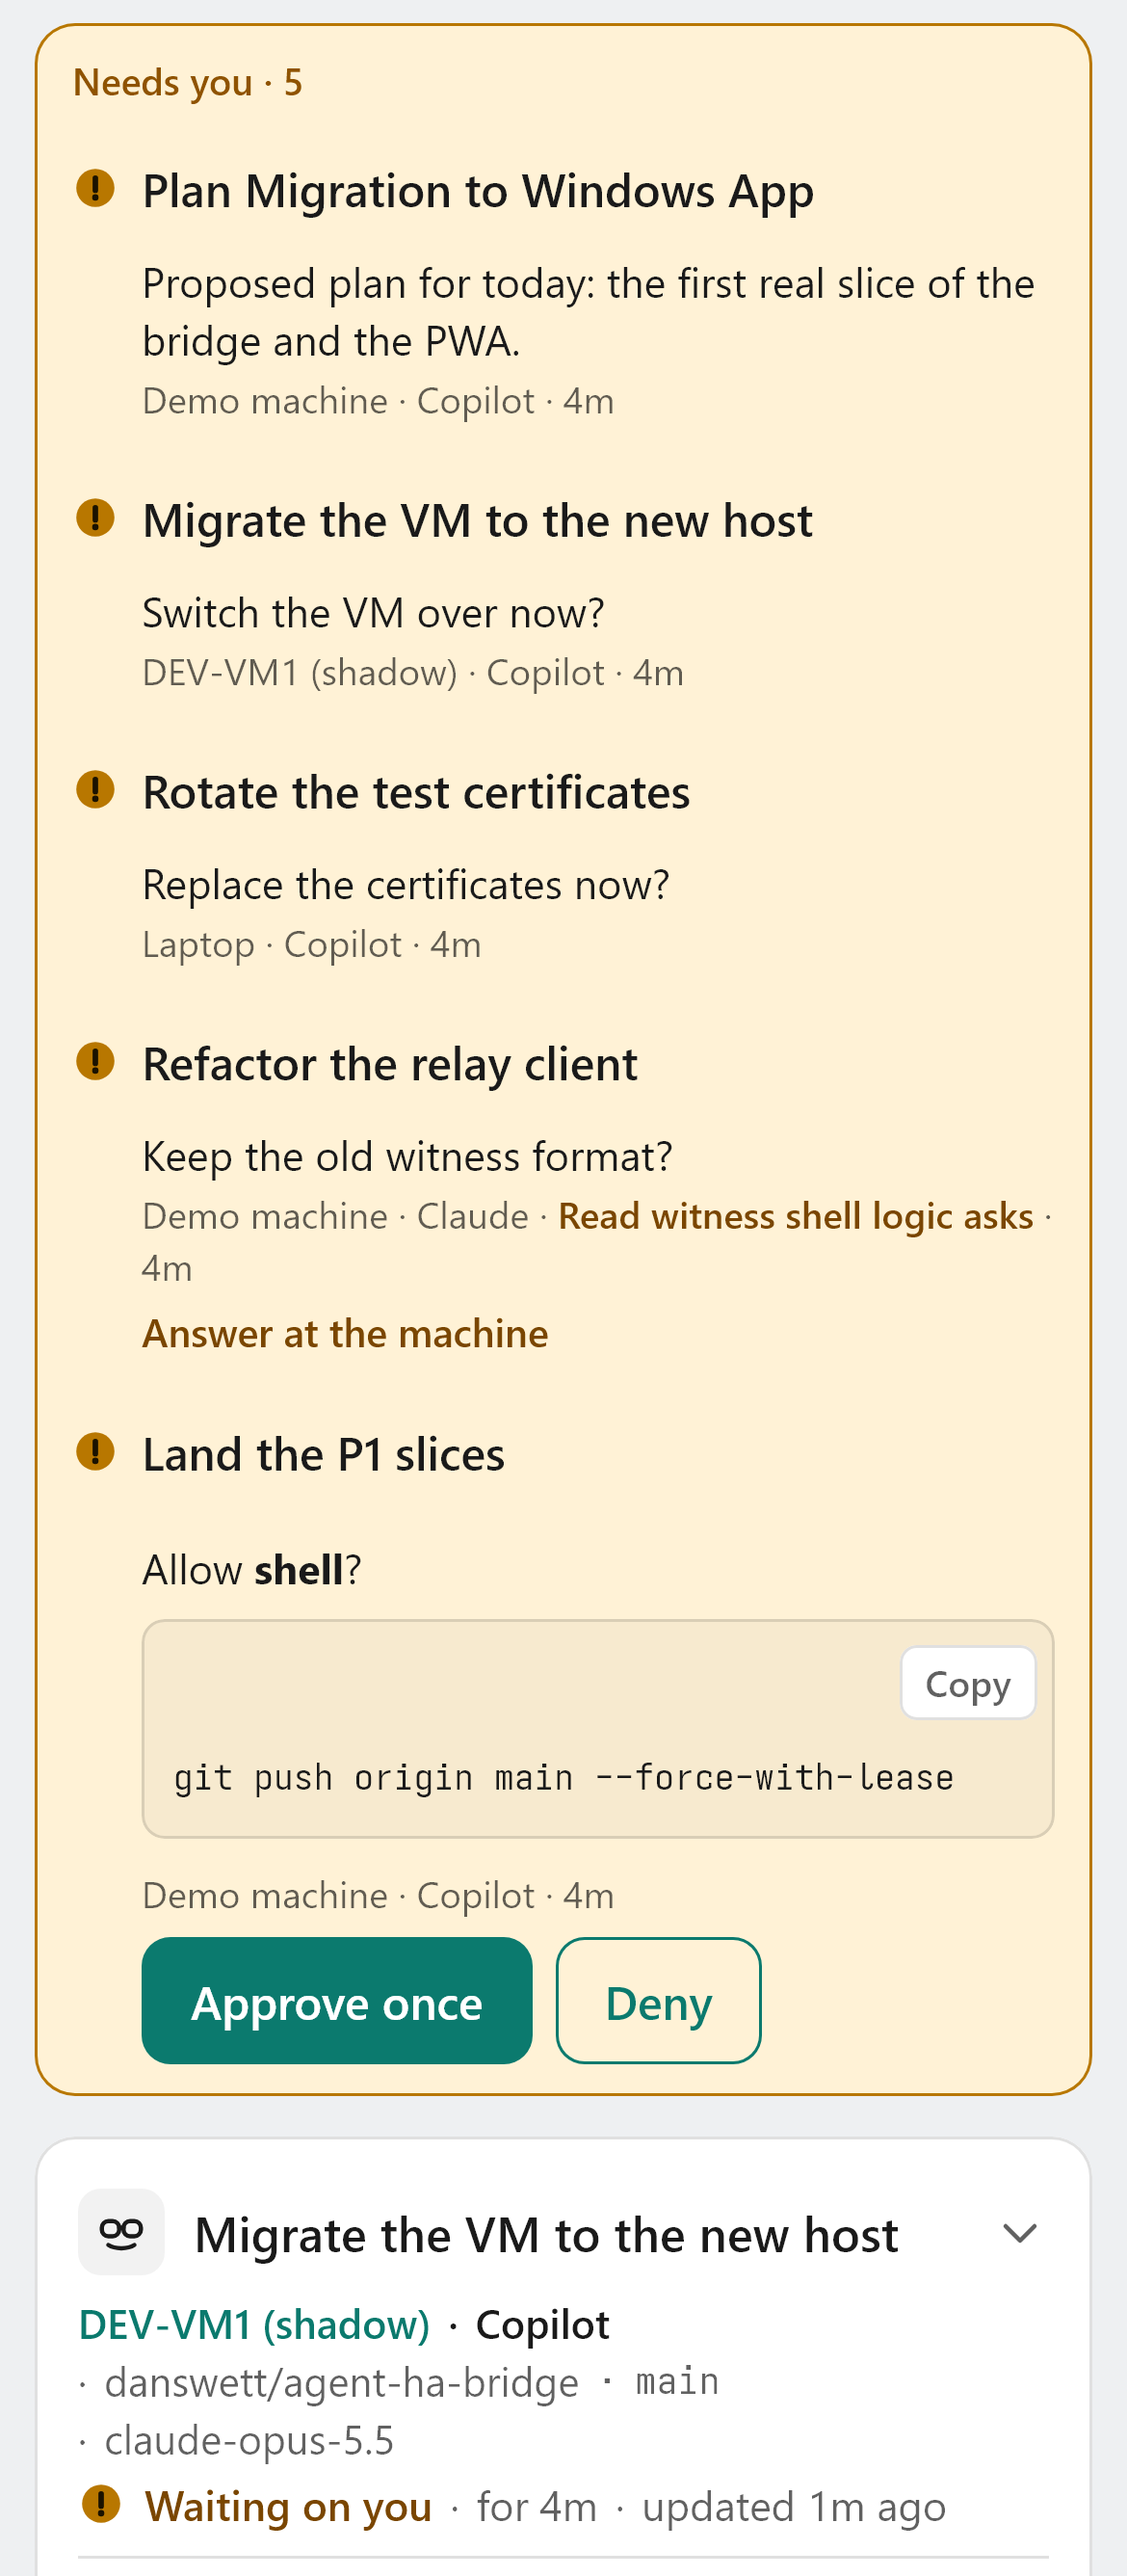
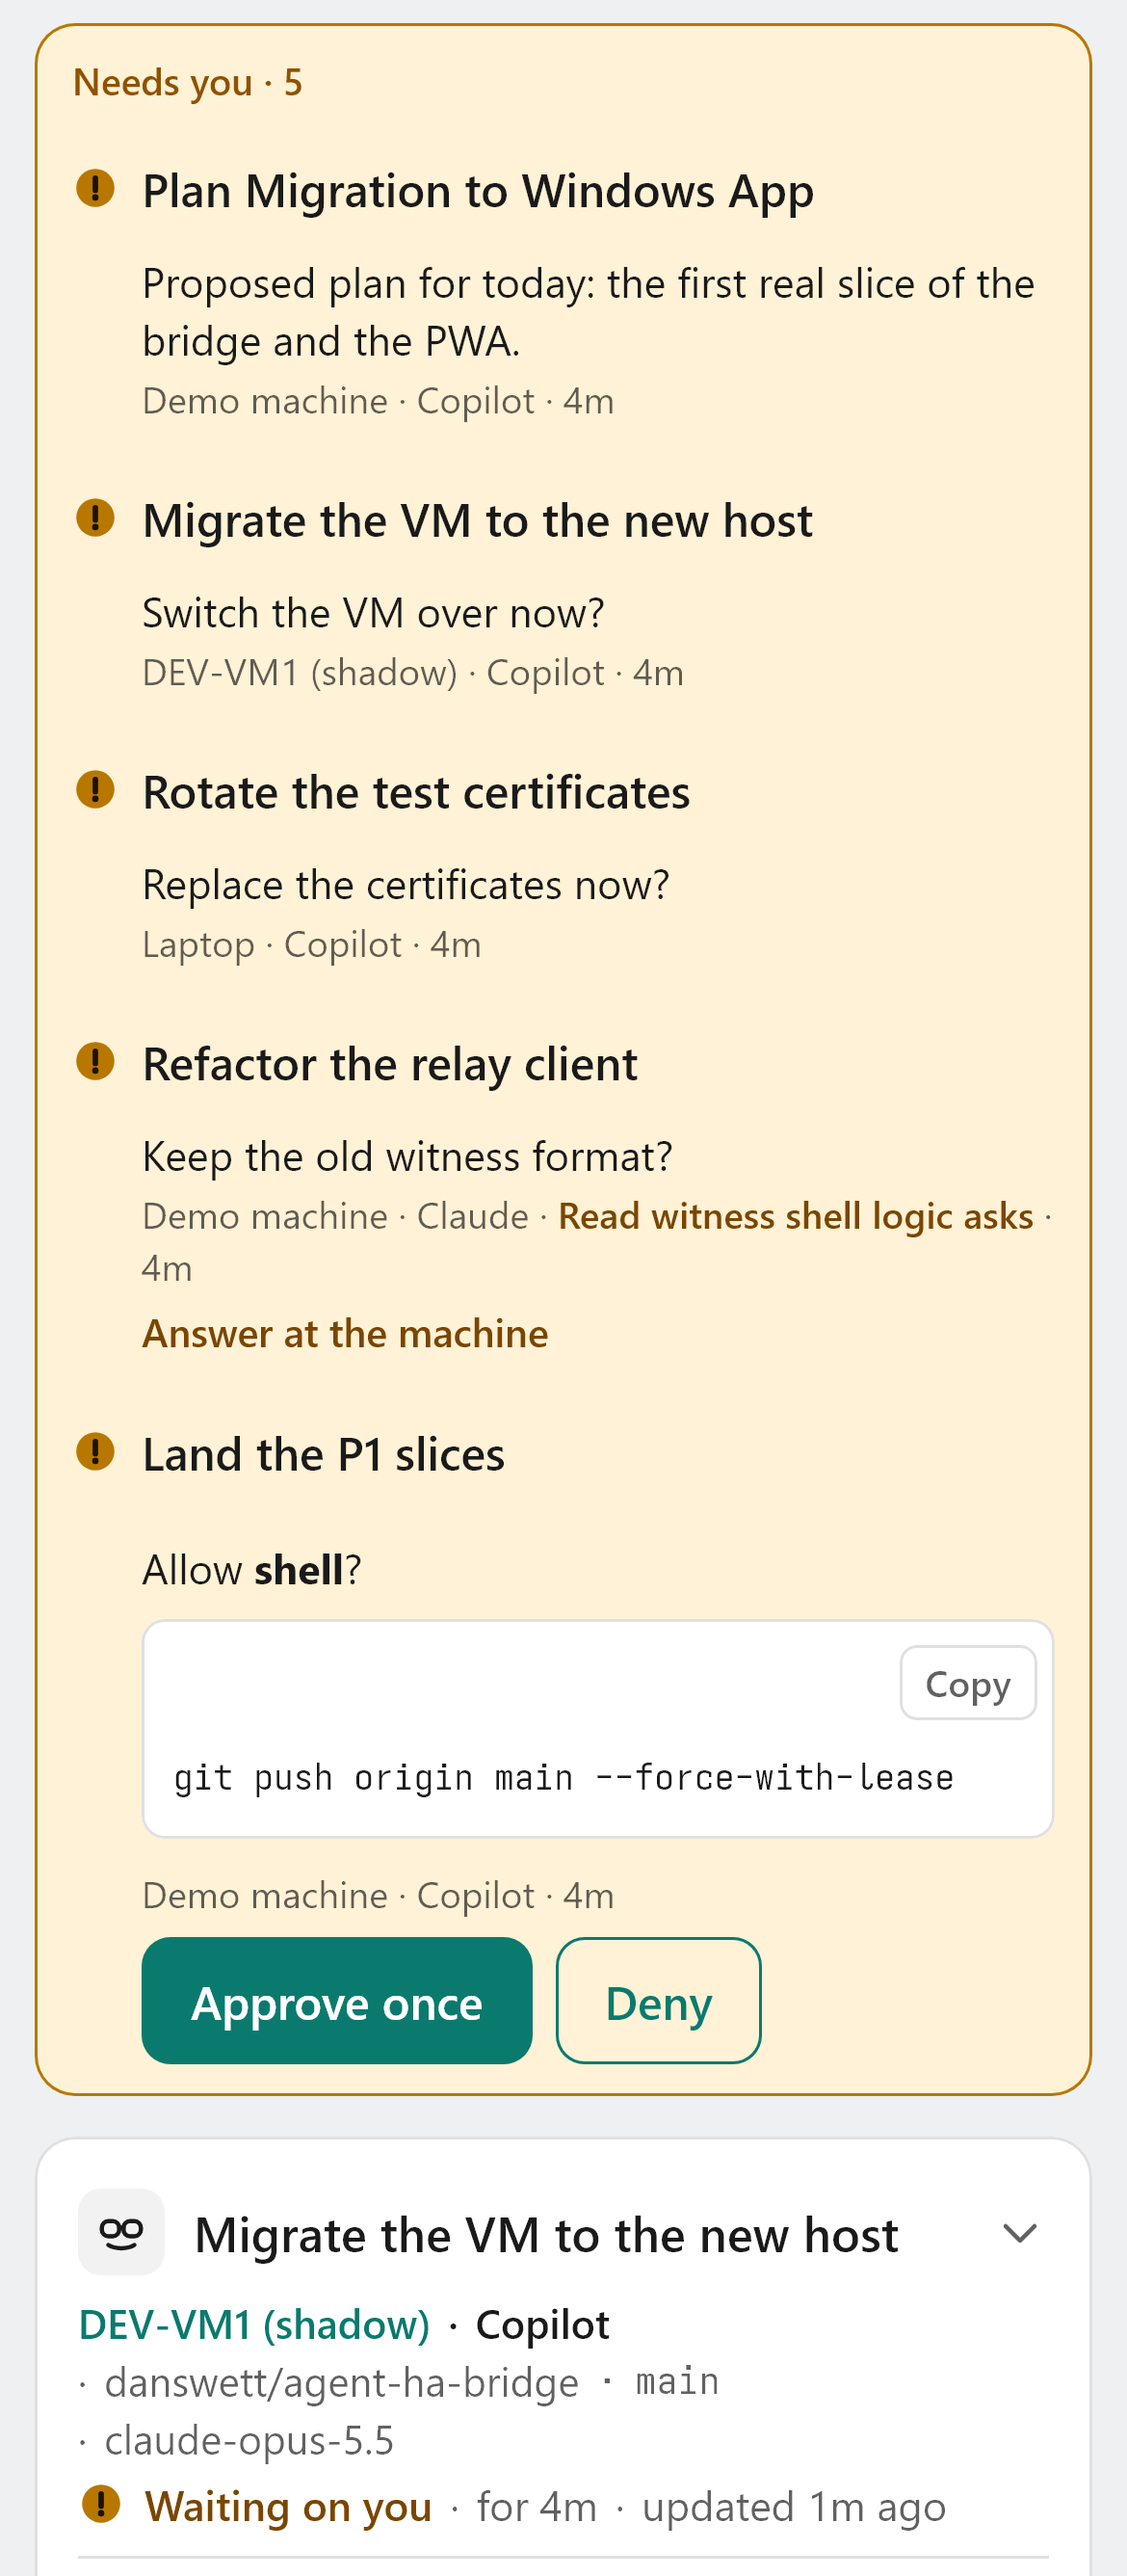
PWA Needs you: approve inline only under a literal prompt; review fixes (#202)
A fence in the agent's words could let the command's fence close it and draw the command as Markdown, and a link hides where it goes, so Approve once is offered only for prose then at most one fenced block ending the prompt, with no link (#212 for the host). The line skips a fenced example's code. Controls name the machine when several are shown. The prompt's code and the status text are checked against the Needs you fill: code on the card colour, status in the text colour.

Copilot-Session: f7ba0bcc-0adb-4319-8166-076158e16fe0

Changed region(s): [[0.1231, 0.621, 0.9538, 0.7142]]

diff --git a/pwa/js/needs-you.js b/pwa/js/needs-you.js
@@ -28,26 +28,67 @@ export function plainLine(text, max = LINE_MAX) {
   return line.length > max ? `${line.slice(0, max - 1).trimEnd()}\u2026` : line;
 }
 
-const FENCE = /^\s{0,3}(`{3,}|~{3,})/;
+const FENCE = /^ {0,3}(`{3,}|~{3,})/;
+// Whether line closes a fence opened by `open` (its first match): the same character, at least as
+// many, and nothing after them.
+const closes = (open, line) => new RegExp(`^ {0,3}${open[0] === '`' ? '`' : '~'}{${open.length},}\\s*$`).test(line);
 
-// The line an entry shows: a question's first line of prose, never a code fence's.
+// The line an entry shows: a question's first line of prose, never a line of code. A question that
+// is all code shows its first line.
 export function questionLine(q) {
-  const first = (q?.message ?? '').split('\n').find((l) => l.trim() && !FENCE.test(l));
-  return plainLine(first ?? '');
+  let open = null;
+  let code = null;
+  for (const l of (q?.message ?? '').split('\n')) {
+    if (open) {
+      if (closes(open, l)) { open = null; } else if (l.trim()) { code ??= l; }
+      continue;
+    }
+    const m = FENCE.exec(l);
+    if (m) { open = m[1]; continue; }
+    if (l.trim()) { return plainLine(l); }
+  }
+  return plainLine(code ?? '');
+}
+
+// Whether a prompt has the shape a host writes for a permission, so that what is drawn is what is
+// allowed: prose, then at most one fenced block, which ends the prompt and holds the command
+// literal. A fence in the prose (the agent's own words can open one) would let the command's fence
+// close it instead and draw the command as Markdown, hiding some of it; and a link shows its
+// words, not where it goes. Either opens the session, where the card has the time to be read.
+function literalShape(text) {
+  const message = text.replace(/\r\n?/g, '\n');
+  const lines = message.split('\n');
+  const at = lines.findIndex((l) => FENCE.test(l));
+  if (at >= 0) {
+    const open = FENCE.exec(lines[at])[1];
+    const end = lines.findIndex((l, i) => i > at && closes(open, l));
+    if (end !== lines.length - 1) { return false; }
+  }
+  const prose = (at >= 0 ? lines.slice(0, at) : lines).join('\n');
+  if (/\]\s*[([]/.test(prose) || /^ {0,3}\[[^\]]+\]:/m.test(prose)) { return false; }
+  // The renderer must agree: the fenced block, if any, is its last block, holding exactly the
+  // command's lines.
+  const nodes = parseMarkdown(message);
+  if (at < 0) { return !nodes.some((n) => n?.tag === 'pre'); }
+  const last = nodes.at(-1);
+  return last?.tag === 'pre' && nodes.filter((n) => n?.tag === 'pre').length === 1
+    && last.children?.[0]?.children?.join('') === lines.slice(at + 1, -1).join('\n');
 }
 
 // How much of an approval's prompt the lane can show whole. Approve once allows everything the
 // prompt describes (a command, a URL, a tool's arguments), so it is offered in the lane only when
 // all of it is on screen, as the card shows it: Markdown drawn as Markdown, code literal and
 // wrapped. A longer one (an edit's diff, a long command) opens its session instead, and so does
-// one with a table, which scrolls sideways.
+// one with a table, which scrolls sideways, or one not shaped as a host writes a permission
+// (literalShape).
 export const PROMPT_MAX = Object.freeze({ chars: 600, lines: 12 });
 
 const hasTable = (nodes) => nodes.some((n) => n && typeof n === 'object' && (n.tag === 'table' || (Array.isArray(n.children) && hasTable(n.children))));
 
 export function wholePrompt(q) {
   const m = (q?.message ?? '').trim();
-  return m.length > 0 && m.length <= PROMPT_MAX.chars && m.split('\n').length <= PROMPT_MAX.lines && !hasTable(parseMarkdown(m));
+  return m.length > 0 && m.length <= PROMPT_MAX.chars && m.split('\n').length <= PROMPT_MAX.lines
+    && literalShape(m) && !hasTable(parseMarkdown(m));
 }
 
 // The agents whose permission prompts a host writes whole and literal, so the lane can show what

diff --git a/pwa/app.css b/pwa/app.css
@@ -214,16 +214,18 @@ a { color: var(--ab-bridge); }
 .needs-prompt { font-size: .9rem; }
 .needs-prompt > :first-child { margin-top: 0; }
 .needs-prompt > :last-child { margin-bottom: 4px; }
+/* Never a tint on a role fill, as in a question: a linked `code` would be bridge at 4.41:1 on
+   subtle over the light needs fill (design/tokens.json color.contrast.tints). */
+.needs-prompt.md pre, .needs-prompt.md :not(pre) > code { background: var(--ab-card); }
 .needs-meta { margin: 2px 0 0; font-size: .8rem; color: var(--ab-text2); overflow-wrap: anywhere; }
 .needs-delegate, .needs-at-machine { color: var(--ab-needs-text); font-weight: 600; }
 .needs-age { font-variant-numeric: tabular-nums; }
 .needs-at-machine { margin: 4px 0 0; font-size: .85rem; }
 .needs-actions { display: flex; flex-wrap: wrap; gap: 8px; margin-top: 6px; }
 .button.needs-approve { background: var(--ab-bridge); border-color: var(--ab-bridge); color: var(--ab-bridge-on); }
-.needs-status { margin: 4px 0 0; font-size: .85rem; color: var(--ab-text2); }
-.needs-status.ok { color: var(--ab-bridge); }
-.needs-status.warn { color: var(--ab-needs-text); }
-.needs-status.bad { color: var(--ab-danger-text); }
+/* In the text colour, not the outcome's: the role colours are checked against the card, not the
+   Needs you fill, and the words say the outcome. */
+.needs-status { margin: 4px 0 0; font-size: .85rem; color: var(--ab-text); }
 @media (forced-colors: active) {
   .needs-you { border-color: Highlight; }
 }

diff --git a/pwa/js/ui/needs-you-view.js b/pwa/js/ui/needs-you-view.js
@@ -131,10 +131,12 @@ export class NeedsYouLane {
     els.age.title = localTime(e.askedAt);
     els.meta.replaceChildren(...[e.machine ? els.machine : null, els.agent, e.delegate ? els.delegate : null, els.age]
       .filter(Boolean).flatMap((el, i) => (i ? [' \u00b7 ', el] : [el])));
-    // Two entries can both have Approve once: each button says which session it answers.
-    els.title.setAttribute('aria-label', `${e.title}: open the session`);
-    els.approve?.setAttribute('aria-label', `Approve once: ${e.title}`);
-    els.deny?.setAttribute('aria-label', `Deny: ${e.title}`);
+    // Two entries can both have Approve once: each button says which session it answers, and on
+    // which machine when several are shown, since two machines can have sessions of one title.
+    const subject = e.machine ? `${e.title} on ${e.machine}` : e.title;
+    els.title.setAttribute('aria-label', `${subject}: open the session`);
+    els.approve?.setAttribute('aria-label', `Approve once: ${subject}`);
+    els.deny?.setAttribute('aria-label', `Deny: ${subject}`);
     this.#age(view);
   }
 

diff --git a/docs/design/ui.md b/docs/design/ui.md
@@ -219,9 +219,10 @@ Sections, top to bottom:
      once" (Bridge) and "Deny" (secondary). They are the card's own buttons: the same
      request, progress and outcomes. The action is the whole prompt, drawn as the card
      draws it with code literal, since Approve once allows all of it; one too long to show
-     whole (an edit's diff, a long command), with a table, or from an agent whose prompt
-     can reach the host cut short (Codex, today; only Copilot's are whole and literal)
-     opens the session instead.
+     whole (an edit's diff, a long command), with a table, not shaped as a host writes a
+     permission (prose, then at most one fenced block ending it, and no link, whose words
+     hide where it goes), or from an agent whose prompt can reach the host cut short
+     (Codex, today; only Copilot's are whole and literal) opens the session instead.
    - Forms open the session. `answerAtMachine` entries say so and have no controls.
    - The lane references sessions; it never moves their rows.
    - Its count is the app's badge: the Windows app's tray and Sessions badge, and the PWA's

diff --git a/pwa/README.md b/pwa/README.md
@@ -158,8 +158,10 @@ sessions and never moves their rows. An entry leaves when its question does.
   literal: Approve once allows all of it, so all of it is on screen. They are the card's own
   buttons: the same request, the same progress shown in the entry and on the card, and the
   same outcomes (a refused or busy answer can be given again, stale and unconfirmed are
-  final). A longer approval (an edit's diff, a long command), one with a table, or one from
-  Codex (whose command can reach the machine cut short) opens its session instead.
+  final). A longer approval (an edit's diff, a long command), one with a table, one not shaped
+  as a host writes a permission (a fence in its words, words after its command, a link, whose
+  words hide where it goes), or one from Codex (whose command can reach the machine cut short)
+  opens its session instead.
 * **A form**, or a question this machine won't take from the phone, opens its session (the
   title), where the card says what it asks.
 * **A prompt marked `answerAtMachine`** says "Answer at the machine", with nothing to press.
